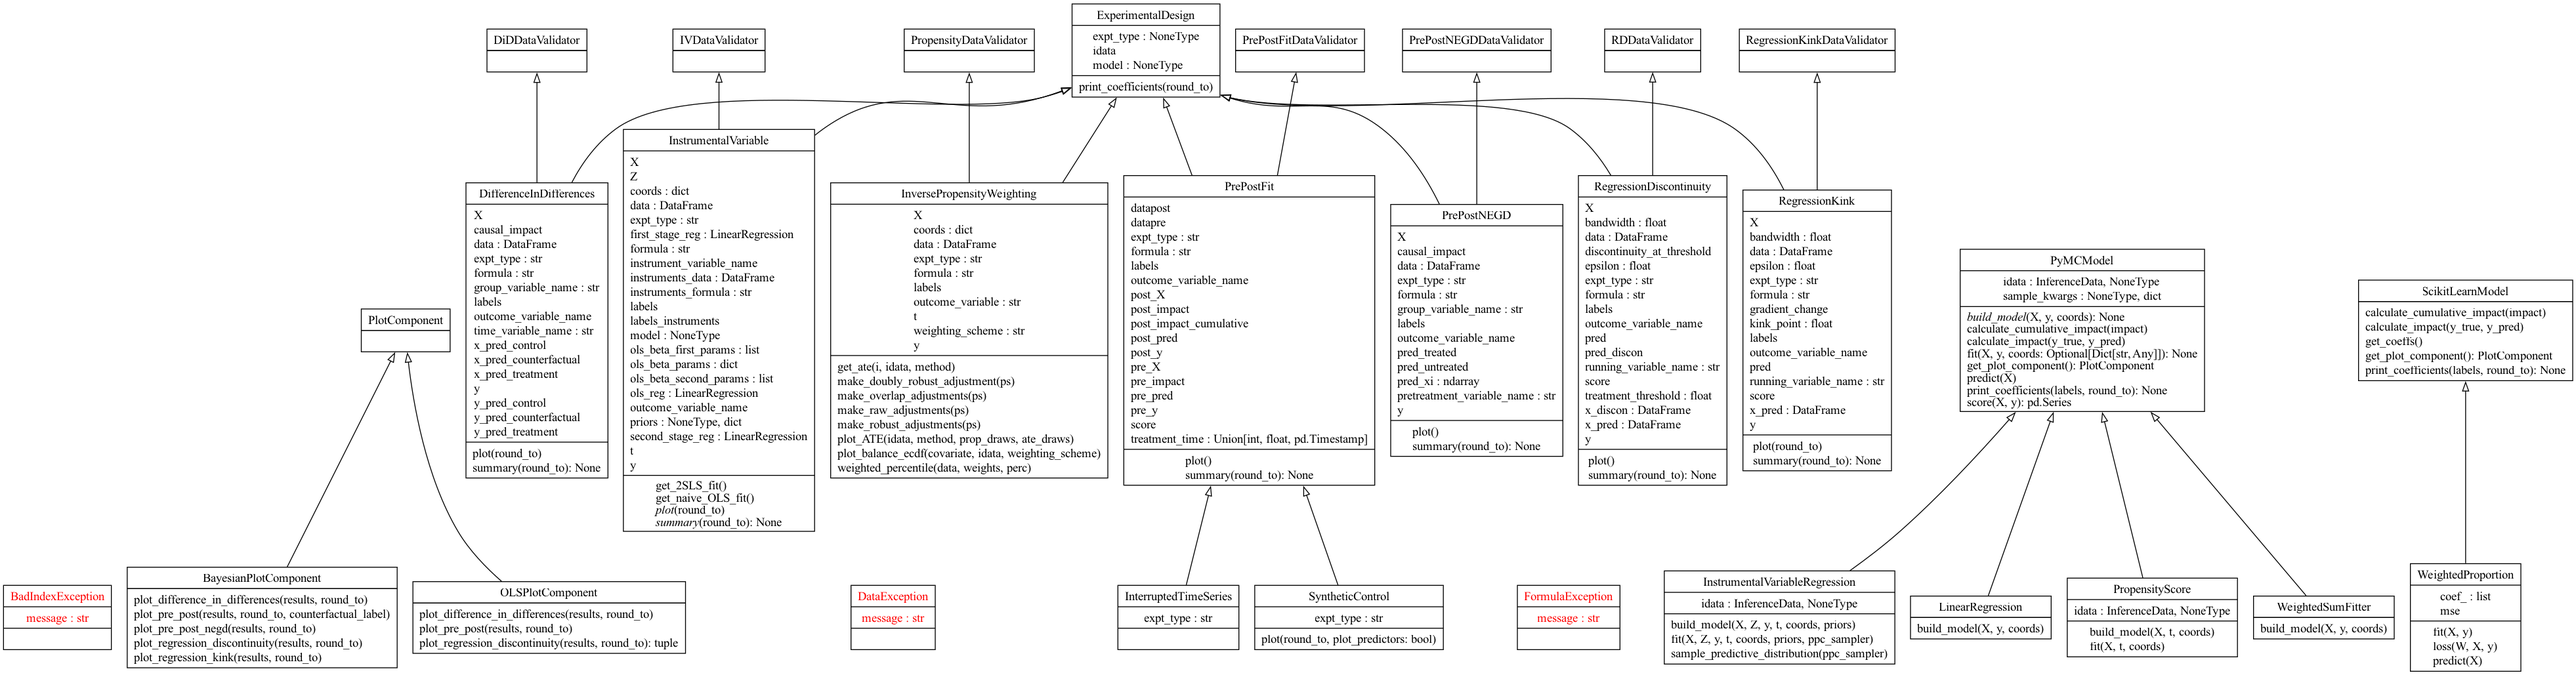
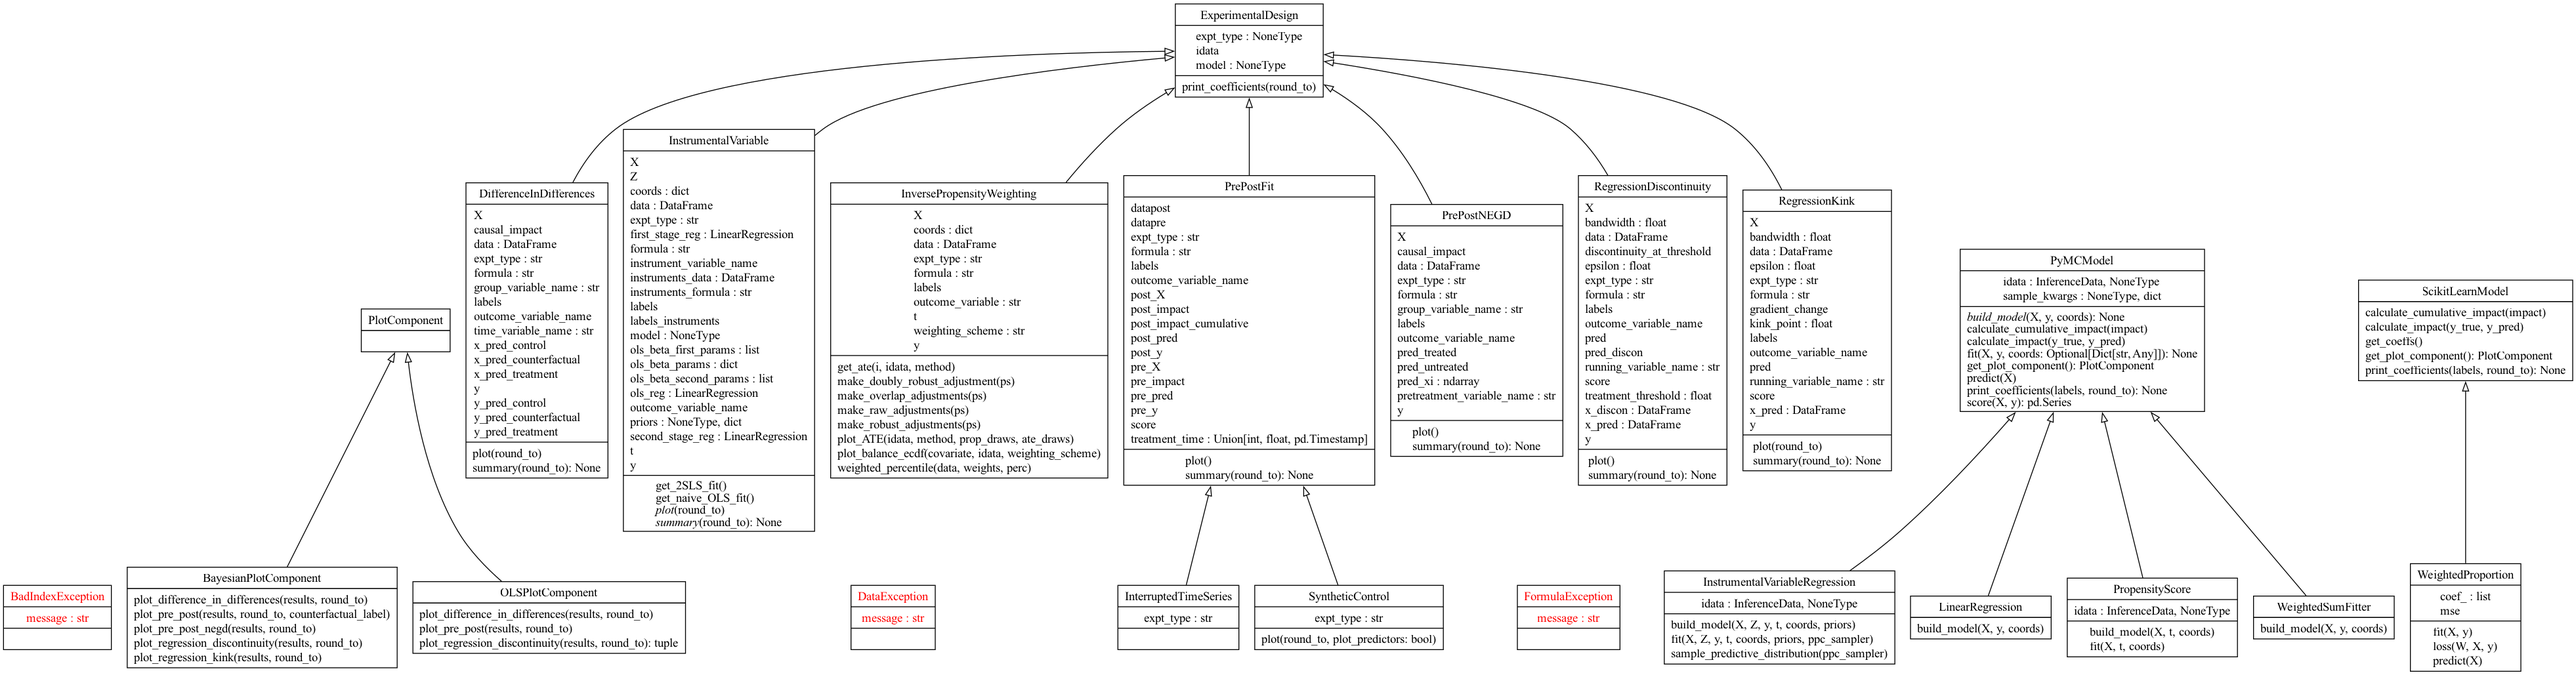
change data validation mixins to class methods

diff --git a/causalpy/expt_instrumental_variable.py b/causalpy/expt_instrumental_variable.py
@@ -15,19 +15,21 @@
 Instrumental variable regression
 """
 
+import warnings  # noqa: I001
+
 import numpy as np
 import pandas as pd
 from patsy import dmatrices
 from sklearn.linear_model import LinearRegression as sk_lin_reg
 
-from causalpy.data_validation import IVDataValidator
+from causalpy.custom_exceptions import DataException
 from causalpy.experiments import ExperimentalDesign
 
 # from causalpy.pymc_models import PyMCModel
 # from causalpy.utils import round_num
 
 
-class InstrumentalVariable(ExperimentalDesign, IVDataValidator):
+class InstrumentalVariable(ExperimentalDesign):
     """
     A class to analyse instrumental variable style experiments.
 
@@ -139,6 +141,29 @@ class InstrumentalVariable(ExperimentalDesign, IVDataValidator):
         self.model.fit(
             X=self.X, Z=self.Z, y=self.y, t=self.t, coords=COORDS, priors=self.priors
         )
+
+    def _input_validation(self):
+        """Validate the input data and model formula for correctness"""
+        treatment = self.instruments_formula.split("~")[0]
+        test = treatment.strip() in self.instruments_data.columns
+        test = test & (treatment.strip() in self.data.columns)
+        if not test:
+            raise DataException(
+                f"""
+                The treatment variable:
+                {treatment} must appear in the instrument_data to be used
+                as an outcome variable and in the data object to be used as a covariate.
+                """
+            )
+        Z = self.data[treatment.strip()]
+        check_binary = len(np.unique(Z)) > 2
+        if check_binary:
+            warnings.warn(
+                """Warning. The treatment variable is not Binary.
+                This is not necessarily a problem but it violates
+                the assumption of a simple IV experiment.
+                The coefficients should be interpreted appropriately."""
+            )
 
     def get_2SLS_fit(self):
         """

diff --git a/causalpy/expt_diff_in_diff.py b/causalpy/expt_diff_in_diff.py
@@ -19,14 +19,17 @@ import numpy as np
 import pandas as pd
 from patsy import build_design_matrices, dmatrices
 
-from causalpy.data_validation import DiDDataValidator
+from causalpy.custom_exceptions import (
+    DataException,
+    FormulaException,
+)
 from causalpy.experiments import ExperimentalDesign
 from causalpy.pymc_models import PyMCModel
 from causalpy.skl_models import ScikitLearnModel
-from causalpy.utils import convert_to_string
+from causalpy.utils import _is_variable_dummy_coded, convert_to_string
 
 
-class DifferenceInDifferences(ExperimentalDesign, DiDDataValidator):
+class DifferenceInDifferences(ExperimentalDesign):
     """A class to analyse data from Difference in Difference settings.
 
     .. note::
@@ -173,6 +176,29 @@ class DifferenceInDifferences(ExperimentalDesign, DiDDataValidator):
             )[0]
         else:
             raise ValueError("Model type not recognized")
+
+    def _input_validation(self):
+        """Validate the input data and model formula for correctness"""
+        if "post_treatment" not in self.formula:
+            raise FormulaException(
+                "A predictor called `post_treatment` should be in the formula"
+            )
+
+        if "post_treatment" not in self.data.columns:
+            raise DataException(
+                "Require a boolean column labelling observations which are `treated`"
+            )
+
+        if "unit" not in self.data.columns:
+            raise DataException(
+                "Require a `unit` column to label unique units. This is used for plotting purposes"  # noqa: E501
+            )
+
+        if _is_variable_dummy_coded(self.data[self.group_variable_name]) is False:
+            raise DataException(
+                f"""The grouping variable {self.group_variable_name} should be dummy
+                coded. Consisting of 0's and 1's only."""
+            )
 
     def plot(self, round_to=None):
         """

diff --git a/causalpy/exp_inverse_propensity_weighting.py b/causalpy/exp_inverse_propensity_weighting.py
@@ -23,14 +23,14 @@ from matplotlib.lines import Line2D
 from patsy import dmatrices
 from sklearn.linear_model import LinearRegression as sk_lin_reg
 
-from causalpy.data_validation import PropensityDataValidator
+from causalpy.custom_exceptions import DataException
 from causalpy.experiments import ExperimentalDesign
 
 # from causalpy.pymc_models import PyMCModel
 # from causalpy.utils import round_num
 
 
-class InversePropensityWeighting(ExperimentalDesign, PropensityDataValidator):
+class InversePropensityWeighting(ExperimentalDesign):
     """
     A class to analyse inverse propensity weighting experiments.
 
@@ -96,6 +96,28 @@ class InversePropensityWeighting(ExperimentalDesign, PropensityDataValidator):
         COORDS = {"obs_ind": list(range(self.X.shape[0])), "coeffs": self.labels}
         self.coords = COORDS
         self.model.fit(X=self.X, t=self.t, coords=COORDS)
+
+    def _input_validation(self):
+        """Validate the input data and model formula for correctness"""
+        treatment = self.formula.split("~")[0]
+        test = treatment.strip() in self.data.columns
+        test = test & (self.outcome_variable in self.data.columns)
+        if not test:
+            raise DataException(
+                f"""
+                The treatment variable:
+                {treatment} must appear in the data to be used
+                as an outcome variable. And {self.outcome_variable}
+                must also be available in the data to be re-weighted
+                """
+            )
+        T = self.data[treatment.strip()]
+        check_binary = len(np.unique(T)) > 2
+        if check_binary:
+            raise DataException(
+                """Warning. The treatment variable is not 0-1 Binary.
+                """
+            )
 
     def make_robust_adjustments(self, ps):
         """This estimator is discussed in Aronow

diff --git a/causalpy/expt_regression_kink.py b/causalpy/expt_regression_kink.py
@@ -22,12 +22,16 @@ import numpy as np
 import pandas as pd
 from patsy import build_design_matrices, dmatrices
 
-from causalpy.data_validation import RegressionKinkDataValidator
 from causalpy.experiments import ExperimentalDesign
 from causalpy.utils import round_num
+from causalpy.custom_exceptions import (
+    DataException,
+    FormulaException,
+)
+from causalpy.utils import _is_variable_dummy_coded
 
 
-class RegressionKink(ExperimentalDesign, RegressionKinkDataValidator):
+class RegressionKink(ExperimentalDesign):
     """Regression Kink experiment class."""
 
     def __init__(
@@ -96,6 +100,24 @@ class RegressionKink(ExperimentalDesign, RegressionKinkDataValidator):
         self.gradient_change = self._eval_gradient_change(
             mu_kink_left, mu_kink, mu_kink_right, epsilon
         )
+
+    def _input_validation(self):
+        """Validate the input data and model formula for correctness"""
+        if "treated" not in self.formula:
+            raise FormulaException(
+                "A predictor called `treated` should be in the formula"
+            )
+
+        if _is_variable_dummy_coded(self.data["treated"]) is False:
+            raise DataException(
+                """The treated variable should be dummy coded. Consisting of 0's and 1's only."""  # noqa: E501
+            )
+
+        if self.bandwidth <= 0:
+            raise ValueError("The bandwidth must be greater than zero.")
+
+        if self.epsilon <= 0:
+            raise ValueError("Epsilon must be greater than zero.")
 
     @staticmethod
     def _eval_gradient_change(mu_kink_left, mu_kink, mu_kink_right, epsilon):

diff --git a/causalpy/expt_regression_discontinuity.py b/causalpy/expt_regression_discontinuity.py
@@ -21,14 +21,18 @@ import numpy as np
 import pandas as pd
 from patsy import build_design_matrices, dmatrices
 
-from causalpy.data_validation import RDDataValidator
 from causalpy.experiments import ExperimentalDesign
 from causalpy.pymc_models import PyMCModel
 from causalpy.skl_models import ScikitLearnModel
 from causalpy.utils import convert_to_string
+from causalpy.custom_exceptions import (
+    DataException,
+    FormulaException,
+)
+from causalpy.utils import _is_variable_dummy_coded
 
 
-class RegressionDiscontinuity(ExperimentalDesign, RDDataValidator):
+class RegressionDiscontinuity(ExperimentalDesign):
     """
     A class to analyse sharp regression discontinuity experiments.
 
@@ -166,6 +170,18 @@ class RegressionDiscontinuity(ExperimentalDesign, RDDataValidator):
                 self.pred_discon[1]
             ) - np.squeeze(self.pred_discon[0])
         # ******************************************************************************
+
+    def _input_validation(self):
+        """Validate the input data and model formula for correctness"""
+        if "treated" not in self.formula:
+            raise FormulaException(
+                "A predictor called `treated` should be in the formula"
+            )
+
+        if _is_variable_dummy_coded(self.data["treated"]) is False:
+            raise DataException(
+                """The treated variable should be dummy coded. Consisting of 0's and 1's only."""  # noqa: E501
+            )
 
     def _is_treated(self, x):
         """Returns ``True`` if `x` is greater than or equal to the treatment threshold.

diff --git a/causalpy/expt_prepostfit.py b/causalpy/expt_prepostfit.py
@@ -21,13 +21,13 @@ import numpy as np
 import pandas as pd
 from patsy import build_design_matrices, dmatrices
 
-from causalpy.data_validation import PrePostFitDataValidator
+from causalpy.custom_exceptions import BadIndexException
 from causalpy.experiments import ExperimentalDesign
 from causalpy.pymc_models import PyMCModel
 from causalpy.skl_models import ScikitLearnModel
 
 
-class PrePostFit(ExperimentalDesign, PrePostFitDataValidator):
+class PrePostFit(ExperimentalDesign):
     """
     A base class for quasi-experimental designs where parameter estimation is based on
     just pre-intervention data. This class is not directly invoked by the user.
@@ -90,6 +90,21 @@ class PrePostFit(ExperimentalDesign, PrePostFitDataValidator):
         self.post_impact_cumulative = self.model.calculate_cumulative_impact(
             self.post_impact
         )
+
+    def _input_validation(self, data, treatment_time):
+        """Validate the input data and model formula for correctness"""
+        if isinstance(data.index, pd.DatetimeIndex) and not isinstance(
+            treatment_time, pd.Timestamp
+        ):
+            raise BadIndexException(
+                "If data.index is DatetimeIndex, treatment_time must be pd.Timestamp."
+            )
+        if not isinstance(data.index, pd.DatetimeIndex) and isinstance(
+            treatment_time, pd.Timestamp
+        ):
+            raise BadIndexException(
+                "If data.index is not DatetimeIndex, treatment_time must be pd.Timestamp."  # noqa: E501
+            )
 
     def plot(self):
         """

diff --git a/causalpy/expt_prepostnegd.py b/causalpy/expt_prepostnegd.py
@@ -19,14 +19,16 @@ import numpy as np
 import pandas as pd
 from patsy import build_design_matrices, dmatrices
 
-from causalpy.data_validation import PrePostNEGDDataValidator
+from causalpy.custom_exceptions import (
+    DataException,
+)
 from causalpy.experiments import ExperimentalDesign
 from causalpy.pymc_models import PyMCModel
 from causalpy.skl_models import ScikitLearnModel
-from causalpy.utils import round_num
+from causalpy.utils import _is_variable_dummy_coded, round_num
 
 
-class PrePostNEGD(ExperimentalDesign, PrePostNEGDDataValidator):
+class PrePostNEGD(ExperimentalDesign):
     """
     A class to analyse data from pretest/posttest designs
 
@@ -139,6 +141,16 @@ class PrePostNEGD(ExperimentalDesign, PrePostNEGDDataValidator):
         self.causal_impact = self.model.idata.posterior["beta"].sel(
             {"coeffs": self._get_treatment_effect_coeff()}
         )
+
+    def _input_validation(self) -> None:
+        """Validate the input data and model formula for correctness"""
+        if not _is_variable_dummy_coded(self.data[self.group_variable_name]):
+            raise DataException(
+                f"""
+                There must be 2 levels of the grouping variable
+                {self.group_variable_name}. I.e. the treated and untreated.
+                """
+            )
 
     def _get_treatment_effect_coeff(self) -> str:
         """Find the beta regression coefficient corresponding to the
